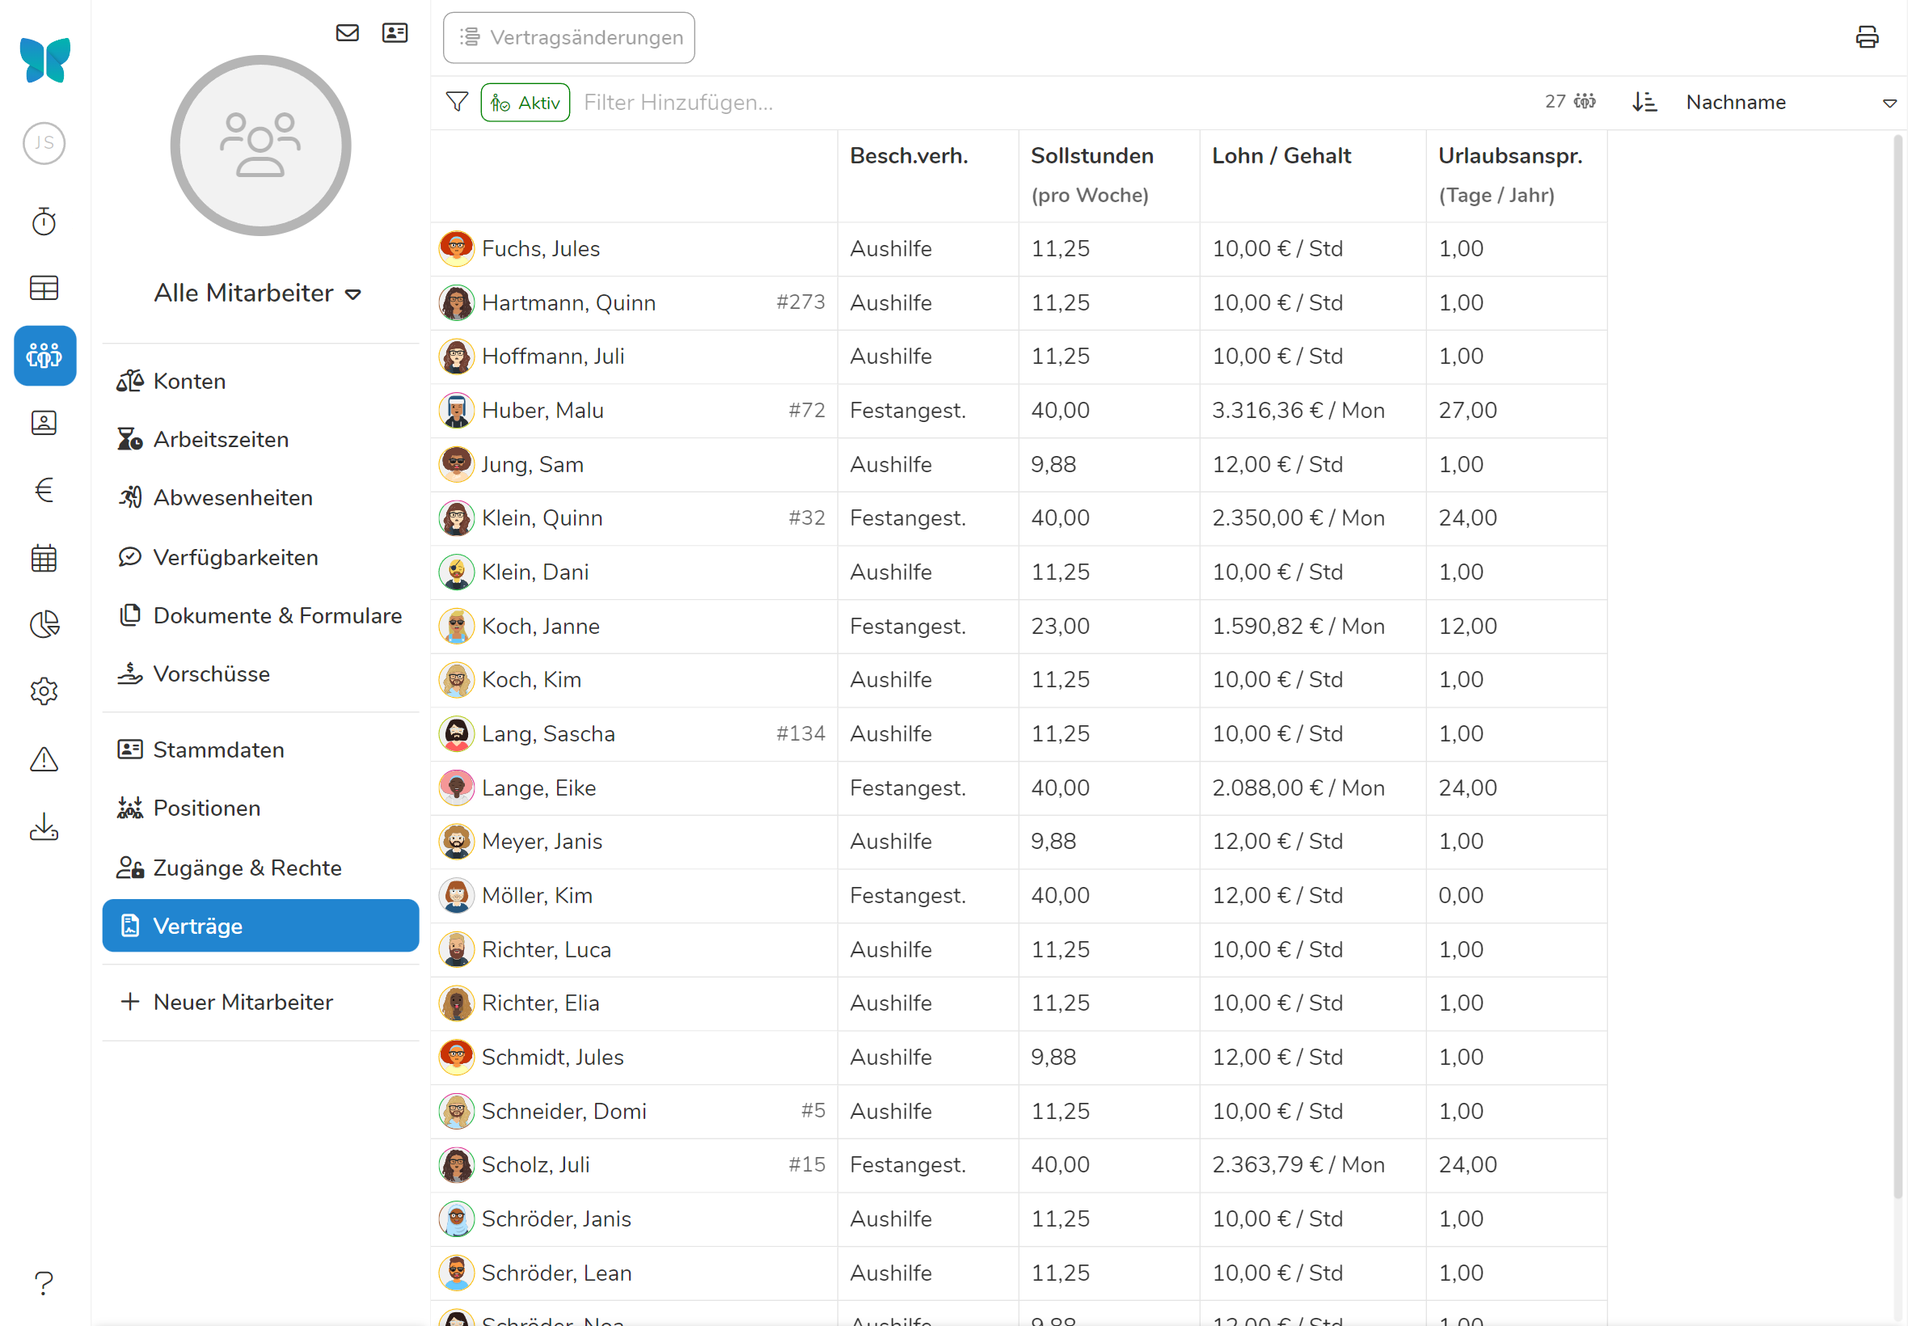
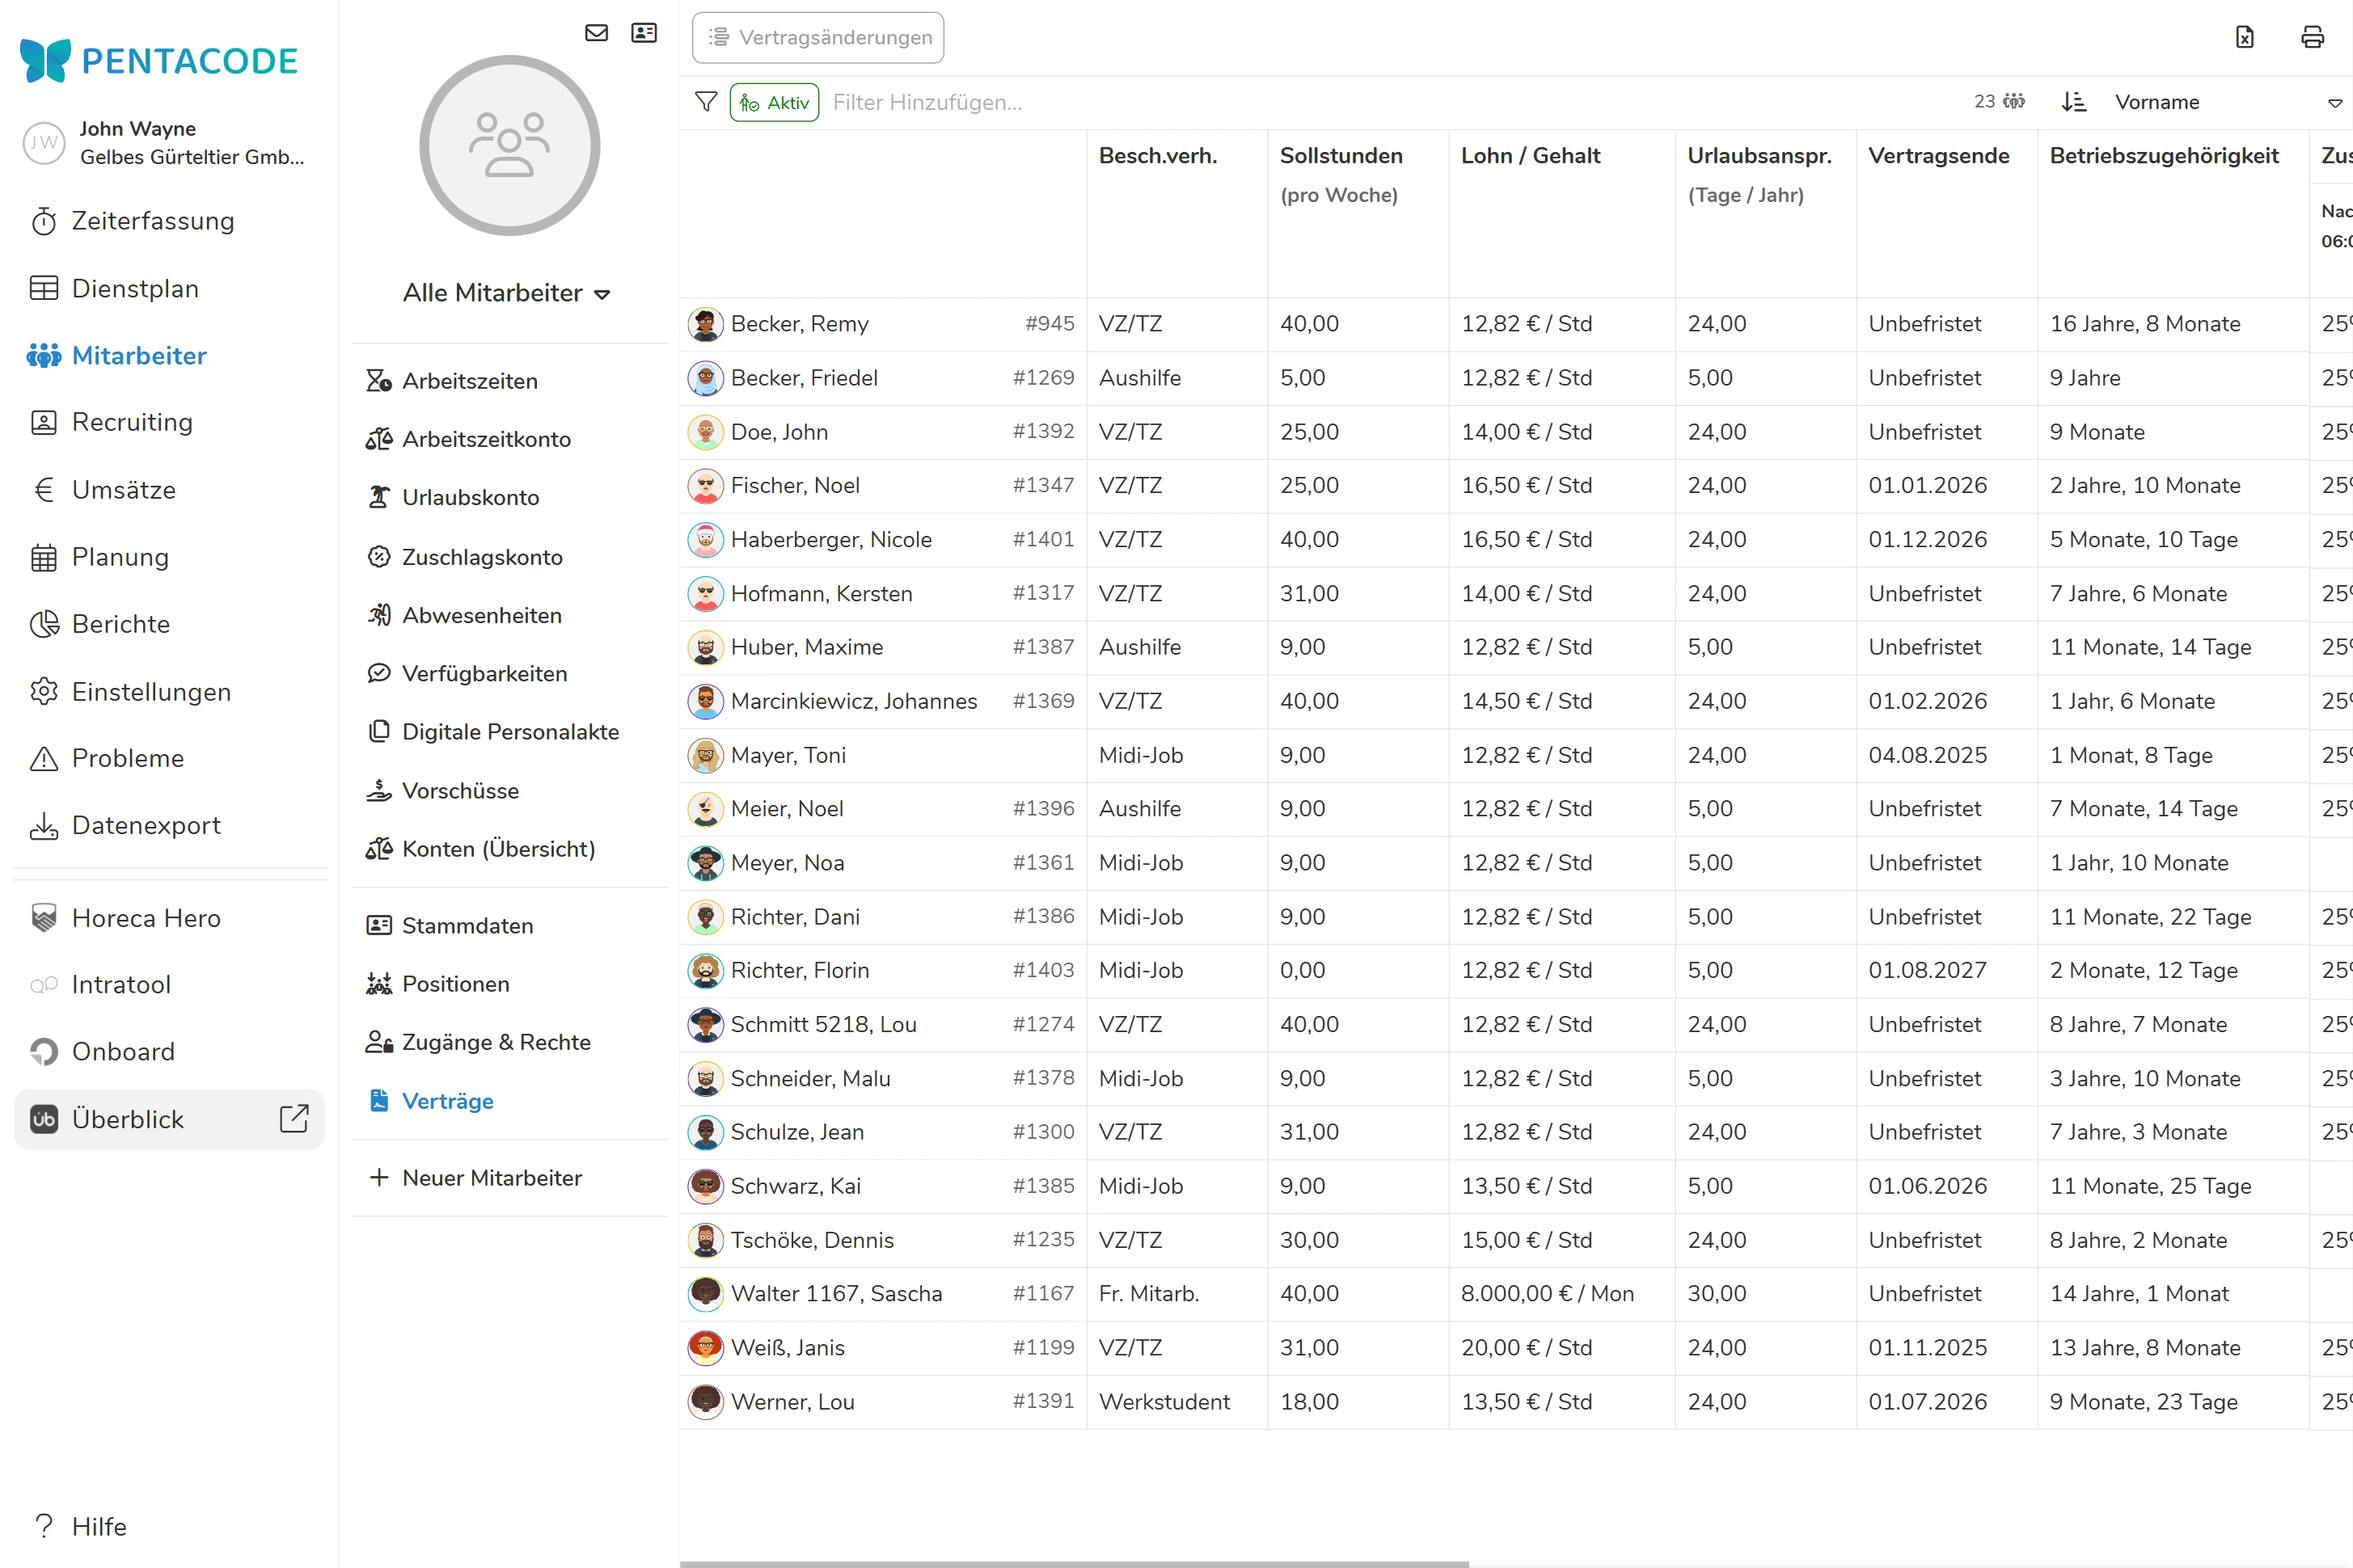
vertragsuebersicht

diff --git a/hilfe/handbuch/mitarbeiter/vertrag/index.md b/hilfe/handbuch/mitarbeiter/vertrag/index.md
@@ -18,7 +18,7 @@ In der Verträge-Übersicht sehen Sie in tabellarischer Form die wichtigsten akt
 einen Blick. Sie gelangen in die Verträge-Übersicht, indem Sie den Punkt {% button icon="people-group", label="Mitarbeiter" %} im Hauptmenü
 und dort im Untermenü {% button icon="file-contract", label="Verträge" %} wählen.
 
-Über den {% button icon="print" %}-Button können Sie diese Ansicht ausdrucken. Das {% button label="Filtern...", iconRight="filter" %} Eingabefeld in der rechten oberen Ecke gibt Ihnen die Möglichkeit, die Liste
+Über den {% button icon="print" %}-Button in der rechten oberen Ecke können Sie diese Ansicht ausdrucken. Über den {% button icon="file-excel" %}-Button daneben können Sie ihre Vertragsdaten als Excel exportieren. Das {% button label="Filtern...", iconRight="filter" %} Eingabefeld in der rechten oberen Ecke gibt Ihnen die Möglichkeit, die Liste
 nach Namen, Beschäftigungsverhältnis, Abteilungen etc. zu filtern. Über den {% button icon="list-timeline", label="Vertragsänderungen" %} Button gelangen Sie zur [Vertragsänderungen-Übersicht](#vertragsänderungen-übersicht). Ein Klick auf einen
 Mitarbeiter bringt Sie in die [Verträge-Einzelansicht](#verträge-einzelansicht) des Mitarbeiters.
 
